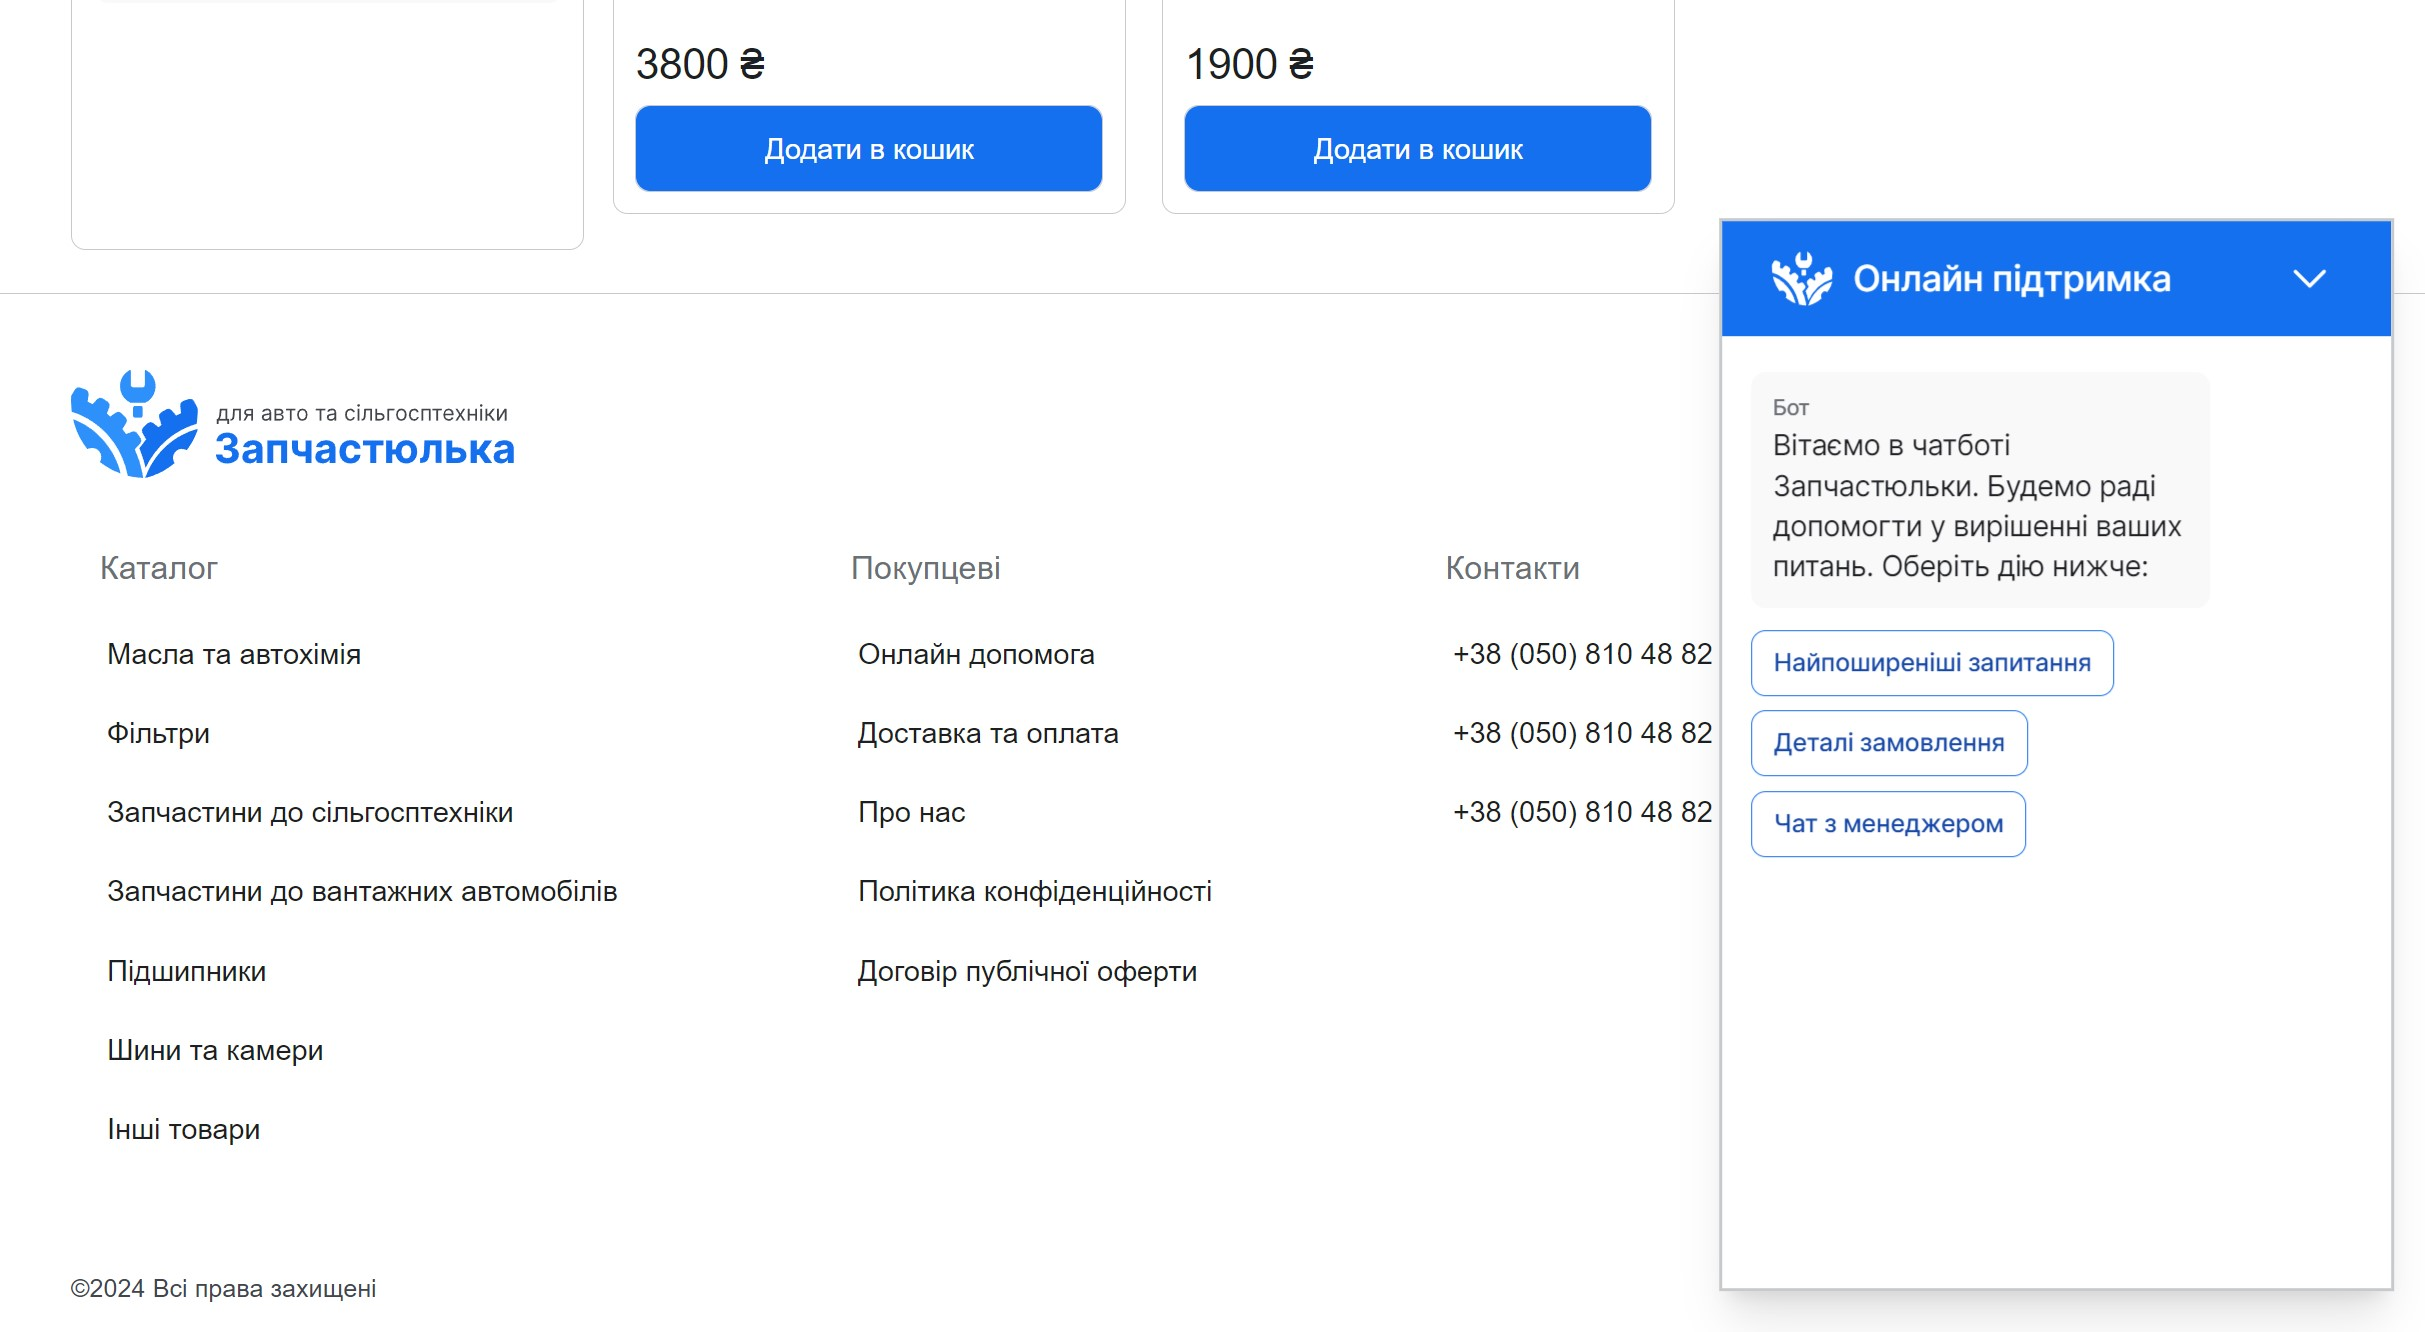
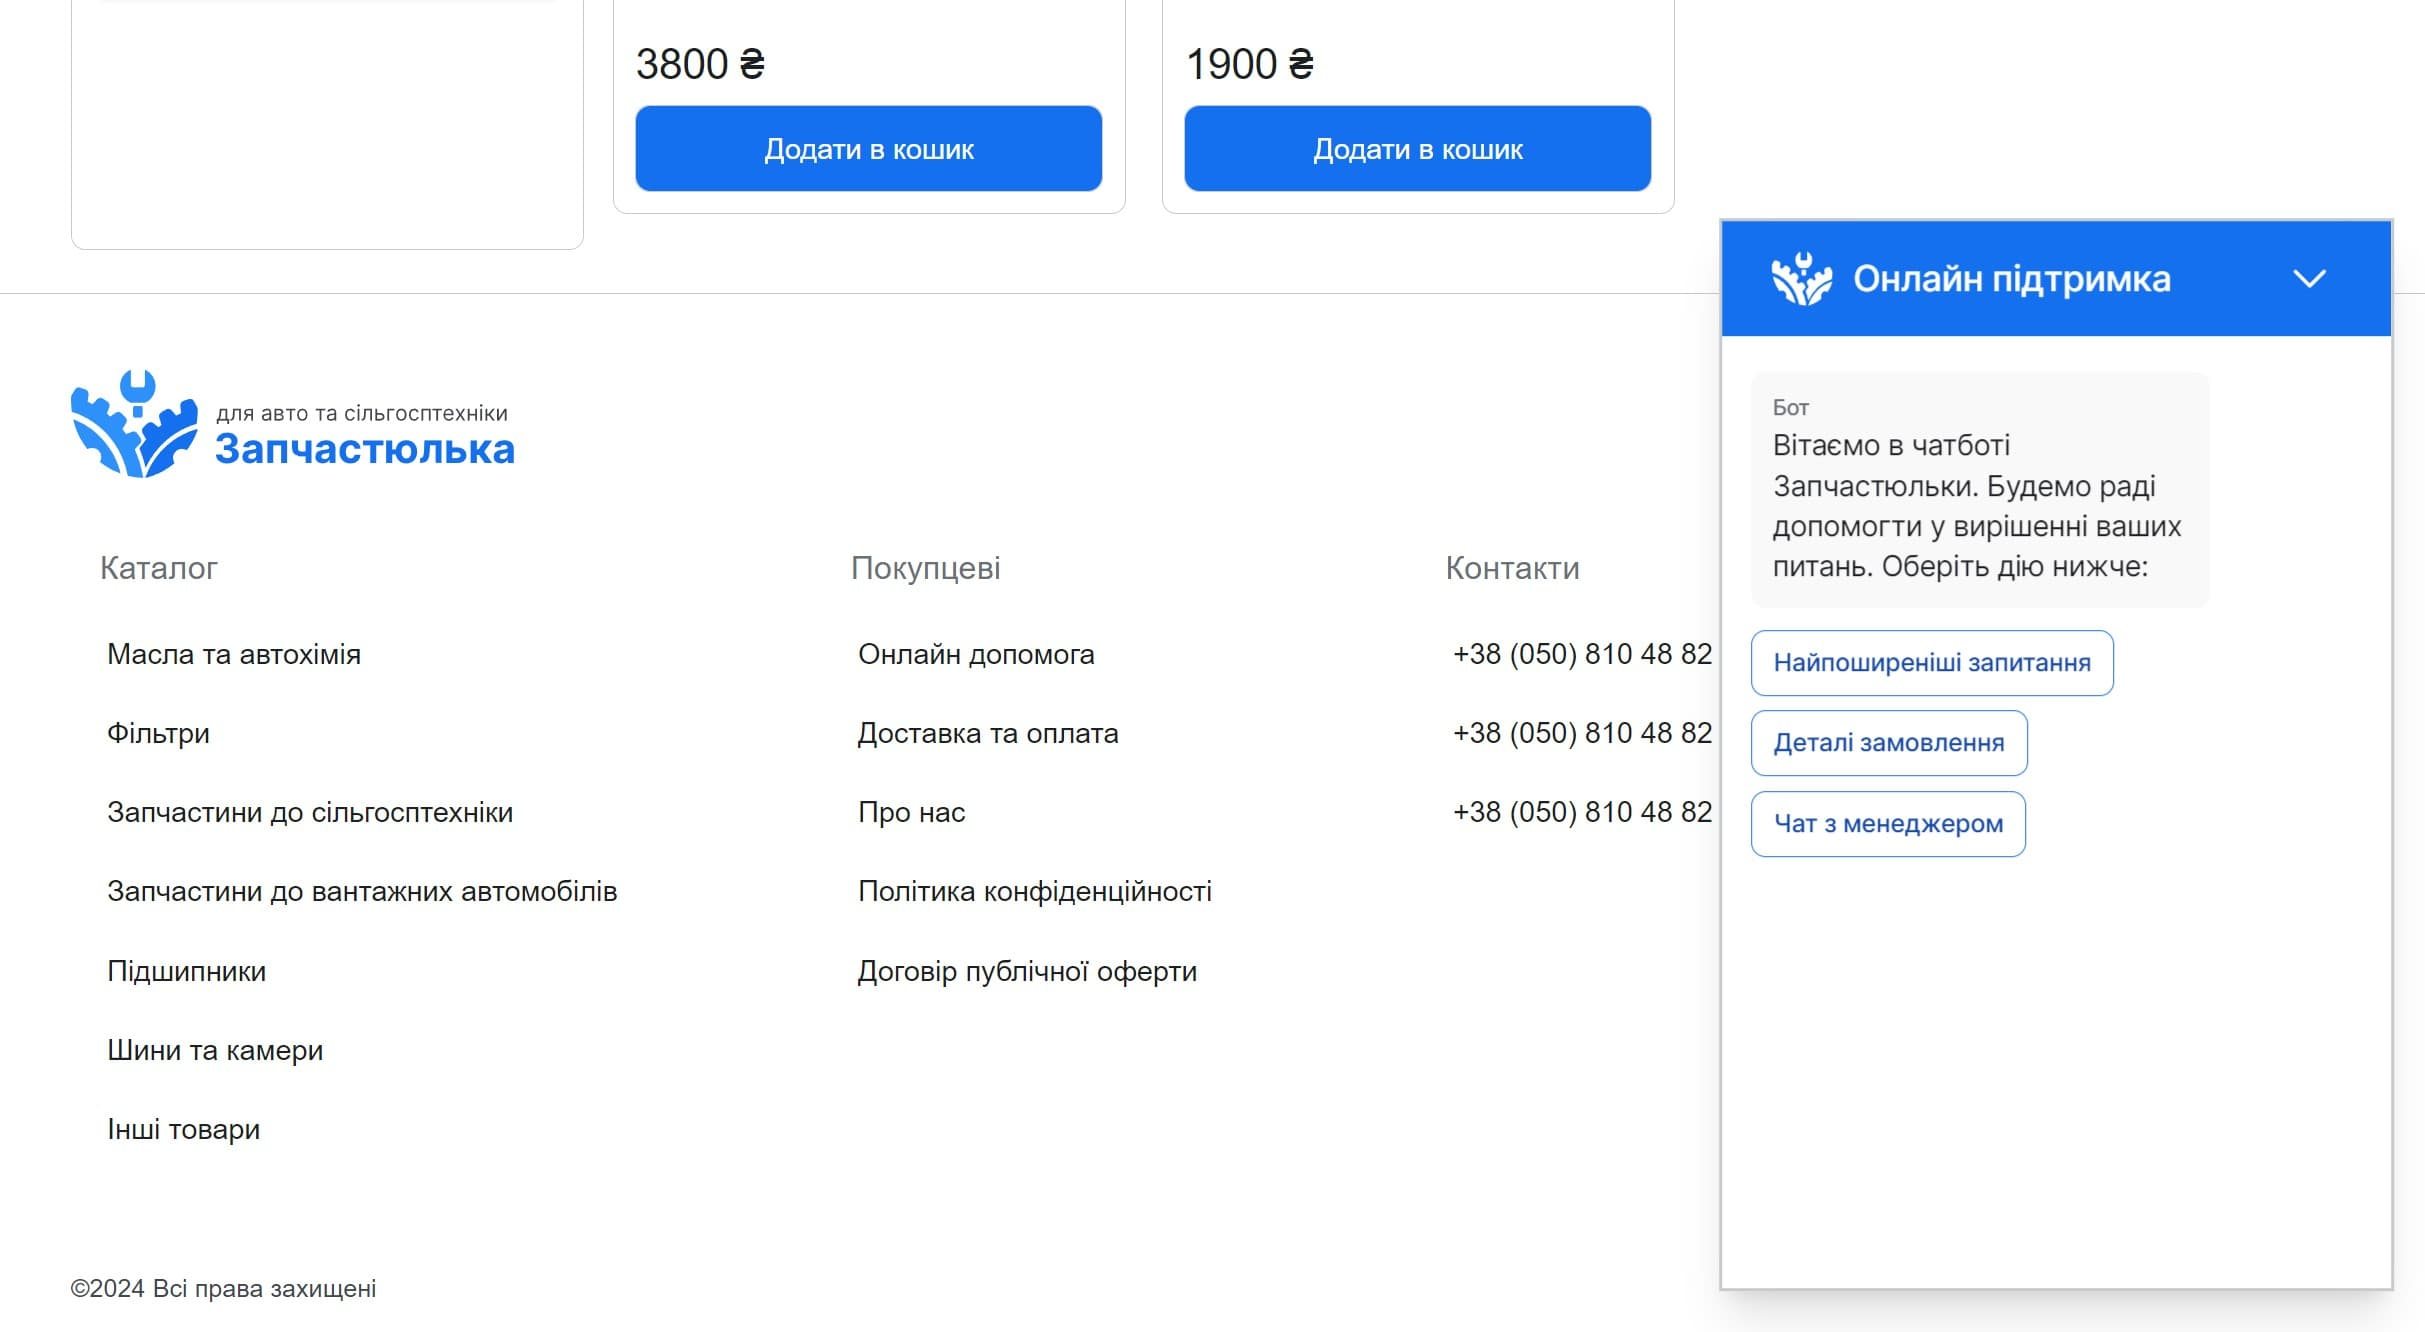
UPDATE: optimize pictures

Changed region(s): [[0.4948, 0.0308, 0.5258, 0.0616], [0.2784, 0.0308, 0.3093, 0.0616], [0.0928, 0.7695, 0.1237, 0.8003]]

diff --git a/app/about-me/page.tsx b/app/about-me/page.tsx
@@ -11,16 +11,15 @@ const Page: FC = () => {
         <h1 className="text-5xl max-sm:text-4xl text-white font-semibold">
           My Skills<span className="text-red-500">.</span>
         </h1>
-        <div className="text-base max-sm:text-sm text-gray-200">
-          <p className="text-xl max-sm:text-base mb-2">
+        <div className="text-xl max-xl:text-base max-sm:text-sm text-gray-200">
+          <p className="text-2xl max-xl:text-xl max-sm:text-base mb-2">
             With good knowledge of JavaScript/TS, React, React Native, Redux,
-            NodeJS, Git, Web-sockets, Vite, I believe that my previous
-            experience within the financial sector provides me with significant
-            advantages:
+            NextJS, NodeJS, Git, Web-sockets, Vite, I am sure that my huge
+            experience give me follow benefits:
           </p>
           <p>
             1.{" "}
-            <span className="text-orange-300 font-semibold">
+            <span className="text-fuchsia-400 font-semibold">
               In-depth Financial Sector Knowledge
             </span>{" "}
             - crucial for developing software solutions connected with financial
@@ -28,7 +27,7 @@ const Page: FC = () => {
           </p>
           <p>
             2.{" "}
-            <span className="text-orange-300 font-semibold">
+            <span className="text-fuchsia-400 font-semibold">
               Strong soft skills
             </span>{" "}
             - this allows me to interact seamlessly with diverse teams,
@@ -36,7 +35,7 @@ const Page: FC = () => {
           </p>
           <p>
             3.{" "}
-            <span className="text-orange-300 font-semibold">
+            <span className="text-fuchsia-400 font-semibold">
               Deeper understanding of Customer Needs
             </span>{" "}
             - it allows me to optimize business processes.

diff --git a/app/page.tsx b/app/page.tsx
@@ -8,7 +8,7 @@ import { myFace2, partBg } from "@/public/assets";
 
 const Home: FC = () => {
   return (
-    <main className="flex items-center h-screen relative bg-cover bg-[url('/assets/bg-home.png')]">
+    <main className="flex items-center h-screen relative bg-cover bg-[url('/assets/bg-home.jpg')]">
       <div className="absolute right-0 top-0 h-full w-[80%] z-[2]">
         <Particle />
       </div>
@@ -35,10 +35,11 @@ const Home: FC = () => {
           <span className="text-red-500">Lucius Annaeus Seneca</span>
         </div>
         <p className="text-[20px] max-sm:text-base max-sm:text-wrap text-gray-200 xl:text-gray-400 xl:pb-2 max-sm:pr-20 max-w-[400px]">
-          I am a Junior Full Stack Developer and focus on MERN technology, Redux
-          and English. I believe that my previous experience within the
-          financial sector provides me with significant advantages as a
-          developer for any company. Check out my projects and skills.
+          I am a Junior Full Stack Developer and focus on MERN technology and
+          can communicate in English (B1+). I believe that my previous
+          experience within the financial sector provides me with significant
+          advantages as a developer for any company. Check out my projects and
+          skills.
         </p>
       </Container>
     </main>

diff --git a/components/Transition.tsx b/components/Transition.tsx
@@ -20,8 +20,9 @@ const TransitionVariants: Variants = {
 
 const Transition: FC = () => {
   return (
-    <div key="transition-key">
+    <div key="parent">
       <motion.div
+        key="child1"
         className="fixed top-0 bottom-0 h-screen w-screen right-full z-[30] bg-yellow-800"
         variants={TransitionVariants}
         initial="initial"
@@ -30,6 +31,7 @@ const Transition: FC = () => {
         transition={{ delay: 0.2, duration: 0.6, ease: "easeInOut" }}
       />
       <motion.div
+        key="child2"
         className="fixed top-0 bottom-0 h-screen w-screen right-full z-[20] bg-yellow-700"
         variants={TransitionVariants}
         initial="initial"
@@ -38,6 +40,7 @@ const Transition: FC = () => {
         transition={{ delay: 0.4, duration: 0.6, ease: "easeInOut" }}
       />
       <motion.div
+        key="child3"
         className="fixed top-0 bottom-0 h-screen w-screen right-full z-[10] bg-yellow-600"
         variants={TransitionVariants}
         initial="initial"

diff --git a/public/assets/index.ts b/public/assets/index.ts
@@ -1,5 +1,5 @@
-import myFace from "./myFace.png";
-import myFace2 from "./myFace2.png";
+import myFace from "./myFace.jpg";
+import myFace2 from "./myFace2.jpg";
 import partBg from "./top-left-img.png";
 
 export { myFace, myFace2, partBg };
